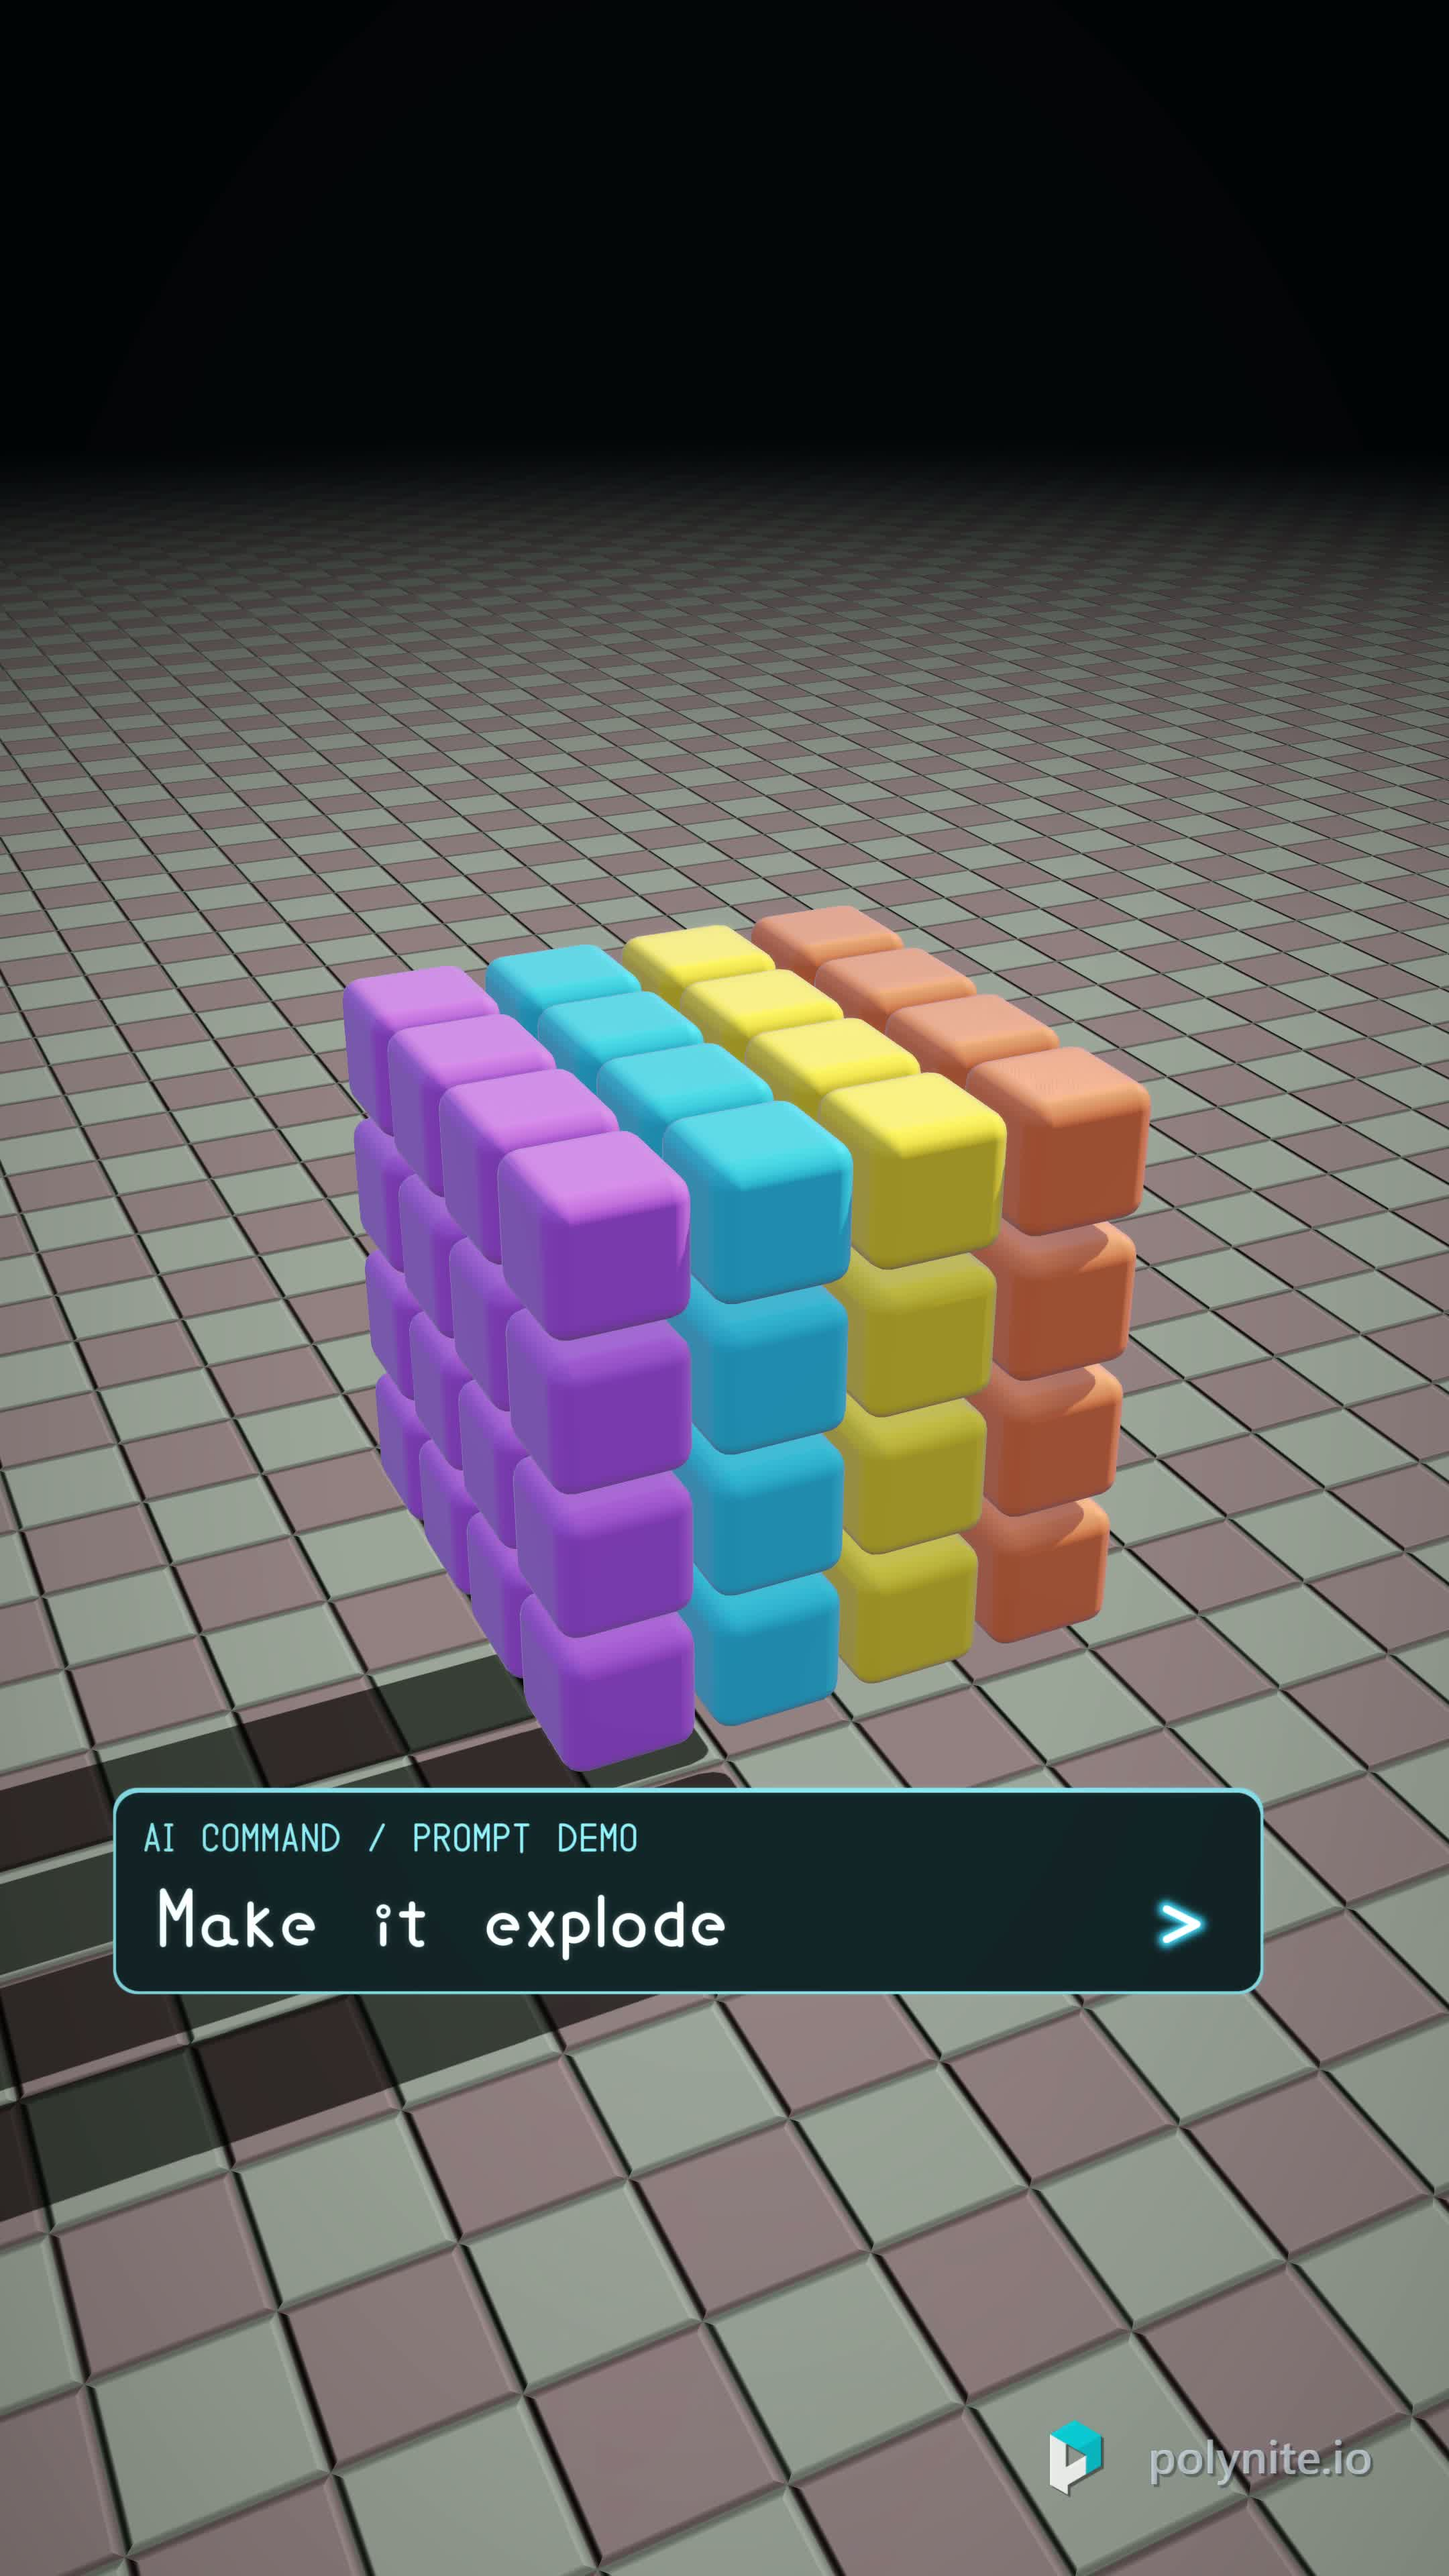
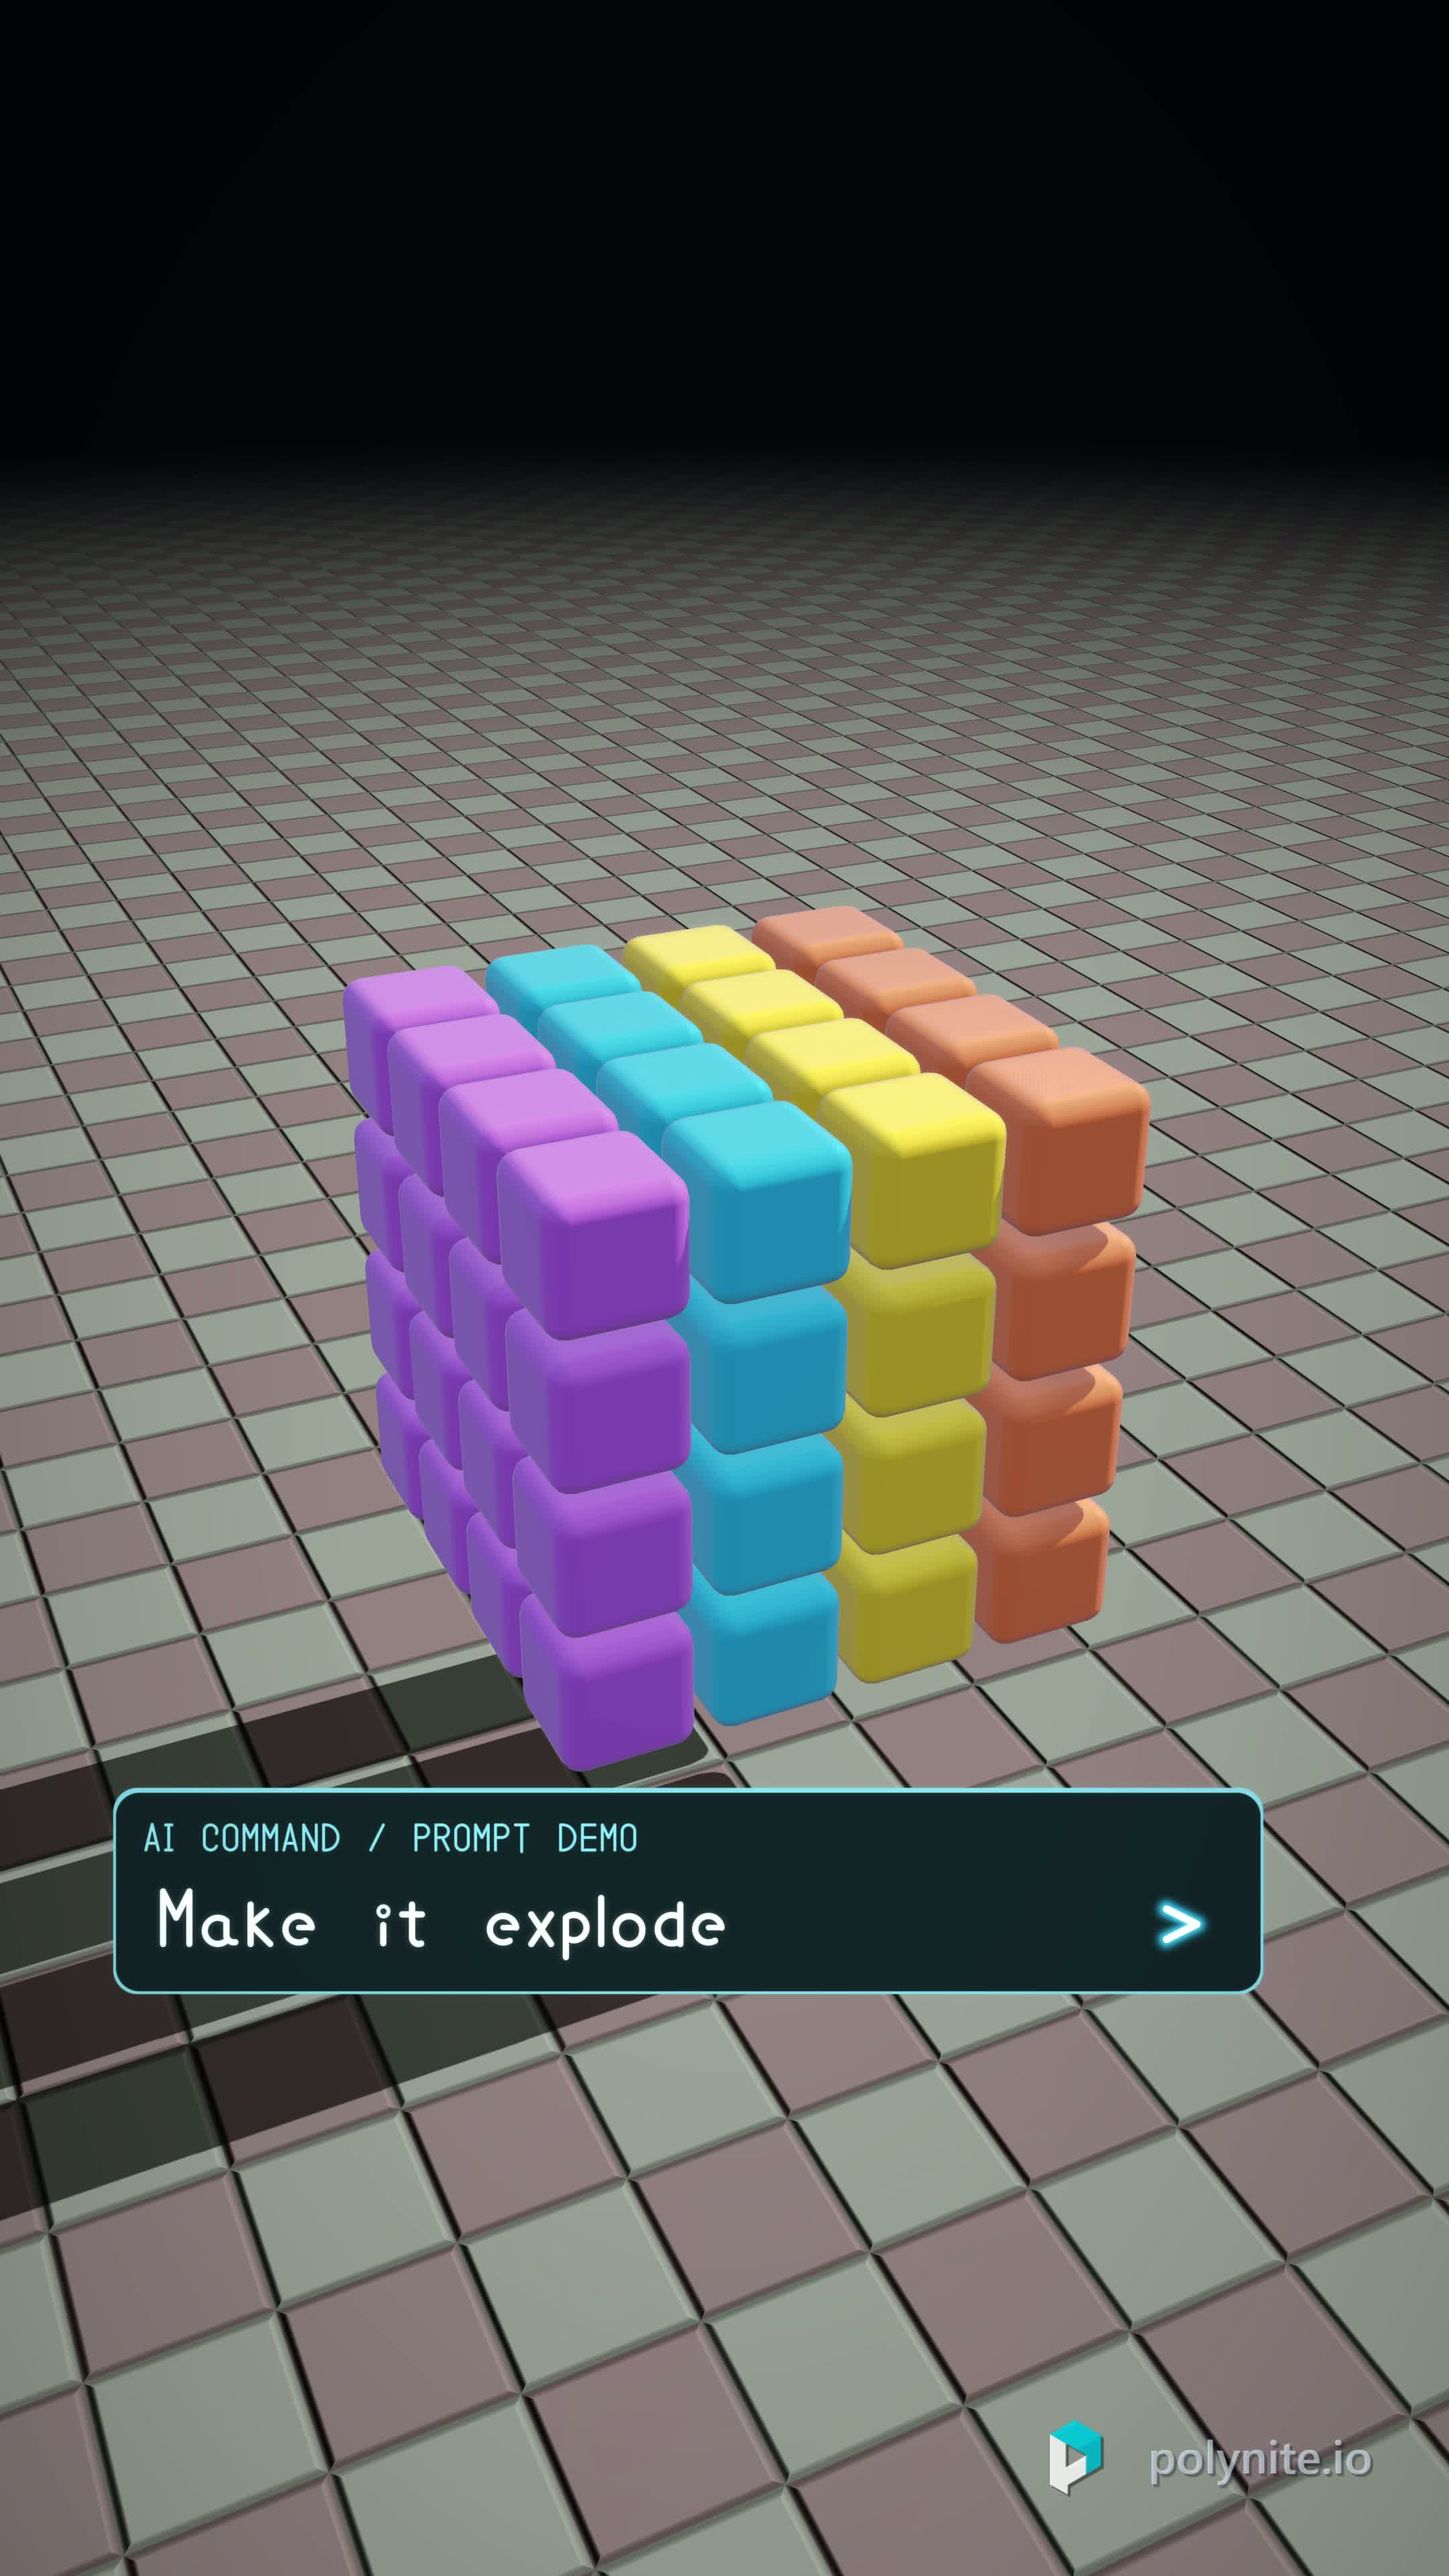
-- Offset portrait short ending for the Shorts action rail

diff --git a/render_shorts.py b/render_shorts.py
@@ -54,6 +54,14 @@ try:
   film('load_document',document=doc,start_paused=True)
   film('set_branding',preset='polynite-ending-v3')
   resolved=film('document');resolved.pop('export',None)
+  if name=='short' and fmt=='portrait':
+   # Centre the ending in the usable frame left of a Shorts action rail.
+   for clip in resolved['seq']:
+    if clip.get('asset')=='polynite-wordmark' and clip.get('branding_slot')=='outro':
+     clip['box'][0]-=.05
+   resolved['initial']['seq']=copy.deepcopy(resolved['seq'])
+   film('load_document',document=resolved,start_paused=True)
+   (OUT/(fmt+'.scene')).write_text(json.dumps(resolved,indent=2))
   (OUT/(name+'-'+fmt+'-resolved.scene')).write_text(json.dumps(resolved,indent=2))
   ready=time.monotonic()+20
   while True:
